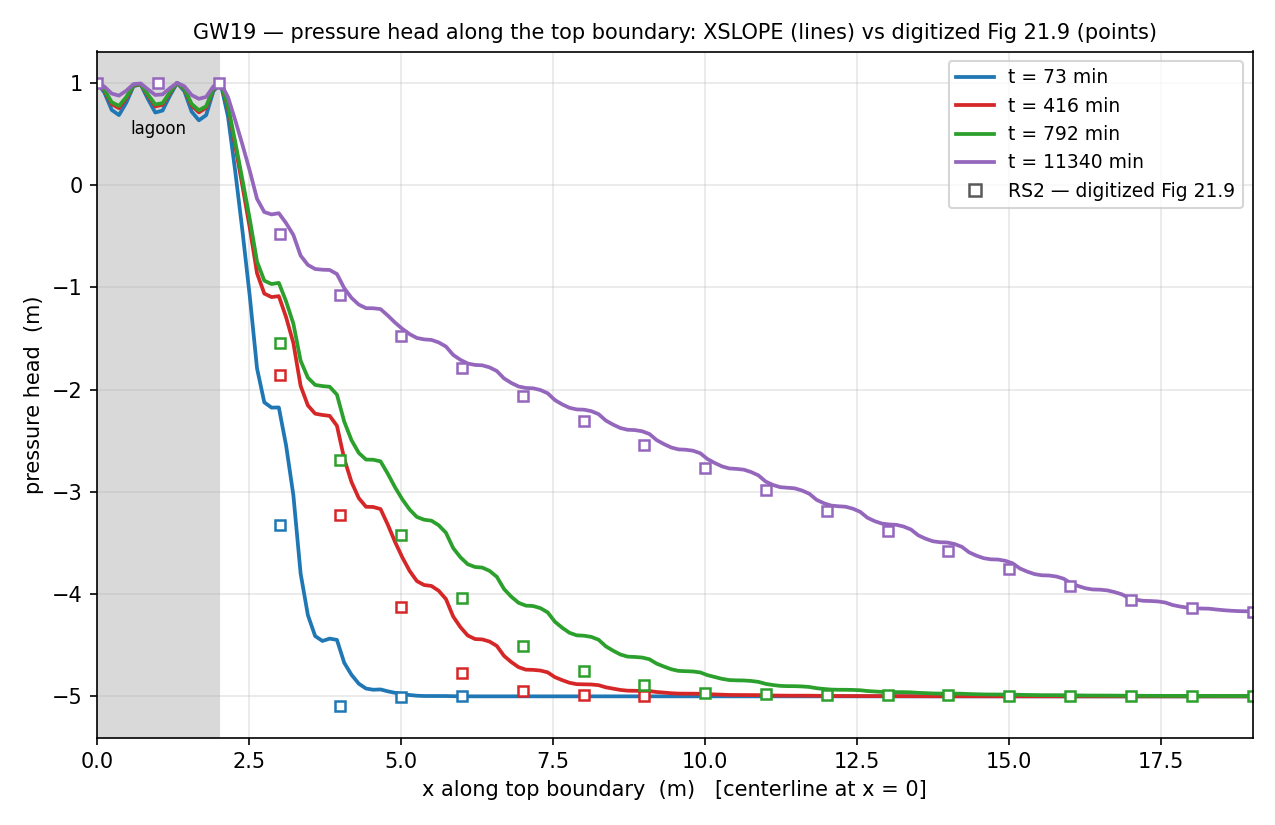
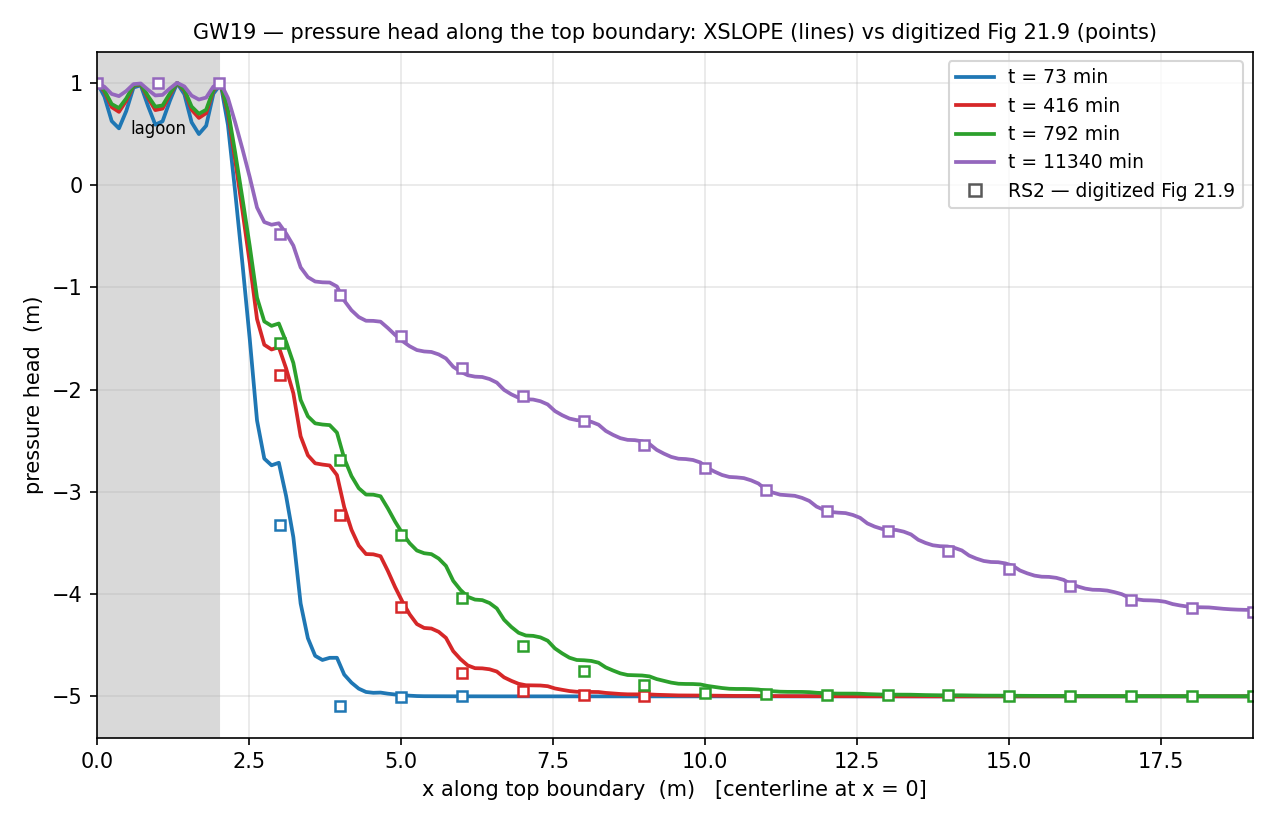
relock(gw19): build the lagoon on the Gardner split — every frame 2-6x closer to RS2
Probe 3 of task #77. GW19 carried one Mualem-vG pair fitted to the vendor's
conductivity table and reused for the moisture capacity, so the capacity followed
the conductivity curve's shape rather than the vendor's retention line. GW18's
split (Gardner kr + independent linear capacity band) applies here after all, and
both of the vendor's curves turn out to be REPRODUCIBLE rather than fittable:

  * conductivity: the #021 .slw table is kr = 1 / 0.1 / 0.01 at 0 / 5 / 10 m of
    suction, identical in relative shape for soil and liner. Gardner
    kr = 1/(1+a*psi^n) passes through both non-trivial points exactly at
    n = ln11/ln2 = 3.45943, a = 9/5^n = 0.034372. The vG pair it replaces returned
    0.095 and 0.0128 there.
  * retention: the water-content table is two points, (0, 0.7) -> (100 kPa, 0.5) --
    a straight line, which is exactly the Sy/|h0| band the gard option uses:
    Sy = 0.2 over h0 = -100/10 = -10 m.

Unit check that made this visible: the two .slw tables are written in DIFFERENT
units -- conductivity against head in metres, water content against pressure in
kPa. Siblings #020/#022 write conductivity abscissae of -10.1936799184506 /
-0.509683995922528 / -3.05810397553517 (= 100 / 5 / 30 kPa over their gamma_w
9.81); here gamma_w = 10 exactly so the converted heads come out round and the
distinction is easy to miss. Both of this model's curves span the same 10 m of
head, which is why the split is available. The builder now records this.
[…]

diff --git a/benchmarks/rocscience/build_groundwater.py b/benchmarks/rocscience/build_groundwater.py
@@ -1181,13 +1181,32 @@ def gw019():
 
     From the vendor RS2 model (groundwater #021 .slw): both materials m_v=0.002,
     porosity 0.7; soil Custom k(psi) k_s=6e-4 (down to 6e-6 by 10 m suction), liner
-    k_s=3.54e-4 (same relative shape), both fit here by one Mualem-vG curve
-    (vg_a=0.1734, vg_n=1.9124).  TimeUnit=minute, so k is m/min and the schedule is
-    in minutes.  Storage S_s = gamma_w*m_v = 10*0.002 = 0.02 /m (the vendor model
-    carries pore_fluid_uw=10), S_y = theta_s - theta_r = 0.7-0.5 = 0.2, read off the
-    ENDPOINTS of the vendor's water-content table (0, 0.7) -> (100, 0.5); its 100 kPa
-    range is the same order as the vG fit's own scale, so the vG moisture capacity
-    stands in for it (see the GW#17/#18 block comment).
+    k_s=3.54e-4 (same relative shape).  TimeUnit=minute, so k is m/min and the
+    schedule is in minutes.  Storage S_s = gamma_w*m_v = 10*0.002 = 0.02 /m (the
+    vendor model carries pore_fluid_uw=10), S_y = theta_s - theta_r = 0.7-0.5 = 0.2.
+
+    Built on the GW#18 split (``unsat='gard'``, see the block comment above), which
+    both vendor tables here support REPRODUCING rather than fitting:
+
+      * conductivity -- the .slw table is three points in metres of head,
+        kr(0)=1, kr(5 m)=0.1, kr(10 m)=0.01, identical in relative shape for the
+        soil and the liner.  Gardner kr = 1/(1+a*psi^n) through the two non-trivial
+        points is exact: n = ln(11)/ln(2) = 3.45943, a = 9/5^n = 0.034372.  (The
+        Mualem-vG pair this replaces, vg_a=0.1734/vg_n=1.9124, was a fit -- it
+        returns kr = 0.095 and 0.0128 at those two points.)
+      * retention -- the .slw water-content table is TWO points in kPa,
+        (0, 0.7) -> (100, 0.5), i.e. a straight line, which is exactly the linear
+        drainage band Sy/|h0| that ``gard`` uses for capacity: Sy = 0.2 over
+        h0 = -100/10 = -10 m.
+
+    NOTE the two tables are written in DIFFERENT units in the .slw -- conductivity
+    against head in metres, water content against pressure in kPa.  The sibling
+    models make this unambiguous: '#020' and '#022' write conductivity abscissae of
+    -10.1936799184506 / -0.509683995922528 / -3.05810397553517, which are 100 / 5 /
+    30 kPa divided by their gamma_w = 9.81, while their water-content abscissae stay
+    round (-4000, -100).  Here gamma_w = 10 exactly, so the converted conductivity
+    heads come out round (-10, -5) and the distinction is easy to miss.  Both of
+    this model's curves therefore span the SAME 10 m of head.
 
     The far field (right edge x=19, y in [0,5]) is held at total head 5 — the
     regional water table 5 m below the surface, which is also the initial condition:
@@ -1203,13 +1222,14 @@ def gw019():
     Fredlund & Rahardjo) + pressure-head contours at the four times — chart-only, no
     tabulated value.  XSLOPE's own solved heads at interior stations are locked as a
     regression guard; the field reproduces the lagoon-leak mound spreading toward the
-    far field.  Carries the SWCC-mapping timing caveat."""
+    far field."""
     sd = _tseep_base_sd(gamma_w=10.0, time_unit='min', unit_system='si')
     ss = 10.0 * 0.002
+    _GARD = dict(kr0=0.0, h0=-10.0, unsat='gard', vg_a=0.034372, vg_n=3.45943)
     soil = _tseep_material(sd['materials'][0], 'Soil', 6.0e-4, ss=ss, sy=0.2)
-    soil.update(kr0=0.0, h0=0.0, unsat='vg', vg_a=0.1734, vg_n=1.9124)
+    soil.update(**_GARD)
     liner = _tseep_material(sd['materials'][0], 'Liner', 3.54e-4, ss=ss, sy=0.2)
-    liner.update(kr0=0.0, h0=0.0, unsat='vg', vg_a=0.1734, vg_n=1.9124)
+    liner.update(**_GARD)
     sd['materials'] = [soil, liner]              # mat 0 = soil, mat 1 = liner
     sd['profile_lines'] = []
     sd['polygons'] = [

diff --git a/docs/verification/rocscience_groundwater.md b/docs/verification/rocscience_groundwater.md
@@ -126,7 +126,7 @@ used across this section (**built**, *covered*, *partial*, *planned*, *blocked*,
 | [16](#gw16) | 🟢 | Pore pressure dissipation of stratified soil | Within ≈0.3–0.5% of u₀ of the recomputed Pyrah 1996 two-layer eigen-series | **built** (3 cases) |
 | [17](#gw17) | <span class="nodata">⊘</span> | Transient seepage, earth fill dam with toe drain | At 15 h XSLOPE's *h* = 7 front stands 1.1–1.8 m inside the upstream face against RS2's 1.5–3.3 m · the steady field reproduces the Fig 19-5 total-head contours — reservoir 10 → drain 0, phreatic drawn to the toe — and at 16383 h, where RS2 is essentially steady, XSLOPE's station heads read 6.54 / 6.92 / 4.37 / 3.22 against a steady 7.20 / 7.52 / 5.84 / 4.40, settling to within 0.01 m of it by ≈5×10⁴ h | **built** (both vendor stage times + steady); contour-only target, locked as a regression guard |
 | [18](#gw18) | 🟢 | Transient seepage through an earth fill dam | Toe-slope total head within 0.072 m rms / 0.106 m worst of the digitized Fig 20.5 profile at t = 0.6 h and 0.115 m rms / 0.187 m worst at t = 19656 h, over 11 stations — both inside the ≈0.2 m the chart can be read to · XSLOPE's steady profile within 0.074 m rms / 0.122 m worst of Fig 20.5's 19656 h curve | **built** (both vendor stage times + steady); the elastic *S*<sub>s</sub> acts in the saturated zone only, as Slide's *m*<sub>v</sub> does — the term that sets the drainage time-scale of every transient row here |
-| [19](#gw19) | 🟢 | Transient seepage below a lagoon | Near-steady (11340 min) pressure head along the top boundary within 0.089 m rms / 0.203 m worst of the digitized Fig 21.9 markers over 20 stations — under 2% of the driving head · early frames 0.27–0.62 m rms, XSLOPE's mound running *ahead* of RS2's | **built** (all four frames); the near-steady frame is locked against the vendor profile, the early frames carry a measured timing shift from the single van Genuchten pair that has to carry both vendor curves |
+| [19](#gw19) | 🟢 | Transient seepage below a lagoon | Near-steady (11340 min) pressure head along the top boundary within 0.045 m rms / 0.126 m worst of the digitized Fig 21.9 markers over 20 stations — under 1% of the driving head · early frames 0.07–0.35 m rms, XSLOPE's mound running slightly *ahead* of RS2's | **built** (all four frames); both vendor curves are reproduced rather than fitted (Gardner conductivity through its three points, capacity band from its straight retention line), the near-steady frame is locked against the vendor profile |
 | [20](#gw20) | <span class="nodata">⊘</span> | Transient seepage in a layered slope | RS2 reaches the steady query-line profile of Fig 22.7 by 208 s and XSLOPE by 400 s: the two differ by 0.105 m rms along the line at 208 s and by 0.005 m once both are steady · XSLOPE's own solved heads at 4.6 / 31 / 208 s are locked as a regression guard | **built** (all three frames); the vendor-facing lock for this geometry is [GW7](#gw7)'s steady profile, and the transient frames carry a measured ≈2× timing offset |
 | [21](#gw21) | 🟢 | Transient seepage through a fully confined aquifer | Within ≈0.02 ft of the Ferris erfc closed form at 600 hr | **built** (both cases) |
 
@@ -979,9 +979,14 @@ at $t=0$ and leaks down through the liner.
 
 From the vendor RS2 model both materials carry $m_v=0.002$ and porosity 0.7; the soil
 Custom $k(\psi)$ has $k_s=6\times10^{-4}$ m/min (down two decades by 10 m suction) and the
-liner $k_s=3.54\times10^{-4}$ m/min with the same relative shape, both fit by one
-Mualem–van Genuchten curve ($\alpha=0.173\ \text{m}^{-1}$, $n=1.91$). Storage
-$S_s=\gamma_w m_v=10\times0.002=0.02\ \text{m}^{-1}$, $S_y=0.3$. The far field (right edge,
+liner $k_s=3.54\times10^{-4}$ m/min with the same relative shape. Both of the vendor's
+unsaturated curves are **reproduced rather than fitted**, the same split
+[GW18](#gw18) uses: the conductivity table is three points, $k_r=1/0.1/0.01$ at
+$0/5/10$ m of suction, which the Gardner law $k_r=1/(1+a\psi^n)$ passes through exactly at
+$n=\ln 11/\ln 2=3.459$, $a=9/5^{n}=0.0344$; and the water-content table is the two points
+$(0,0.7)\rightarrow(100\ \text{kPa},0.5)$, a straight line, which is exactly the linear
+drainage band the Gardner option uses for moisture capacity — $S_y=0.2$ over
+$h_0=-100/10=-10$ m. Storage $S_s=\gamma_w m_v=10\times0.002=0.02\ \text{m}^{-1}$. The far field (right edge,
 $y\in[0,5]$) is held at total head 5 — the regional water table 5 m below the surface, which
 is also the **initial condition**: the $t=0$ steady solve at a lagoon head of 5 (equal to the
 far field) gives a uniform water table at el 5, then the lagoon steps to total head 11
@@ -998,39 +1003,39 @@ exactly the initial water table 5 m below the top boundary, and the lagoon marke
 for [GW18](#gw18).
 
 **The near-steady frame.** Against RS2's own markers at 20 stations along the top boundary,
-XSLOPE's 11340 min profile agrees to **0.089 m rms and 0.203 m at worst** over a pressure-head
-range of more than 5 m — under 2% of the driving head, with the single largest deviation at
-*x* = 3 m, the first station off the lagoon edge. Five top-boundary stations of that frame are
-locked.
+XSLOPE's 11340 min profile agrees to **0.045 m rms and 0.126 m at worst** over a pressure-head
+range of more than 5 m — under 1% of the driving head. Five top-boundary stations of that
+frame are locked.
 
 | $x$ (m) | 3 | 6 | 10 | 14 | 19 |
 |---|---|---|---|---|---|
-| XSLOPE pressure head | −0.28 | −1.72 | −2.65 | −3.50 | −4.17 |
-| Fig 21.9 (RS2) | −0.48 (+0.20) | −1.79 (+0.07) | −2.76 (+0.11) | −3.57 (+0.07) | −4.18 (+0.01) |
+| XSLOPE pressure head | −0.37 | −1.83 | −2.73 | −3.54 | −4.15 |
+| Fig 21.9 (RS2) | −0.48 (+0.10) | −1.79 (−0.05) | −2.76 (+0.03) | −3.57 (+0.04) | −4.18 (+0.02) |
 
-**The early frames.** These do not track as closely — 0.62 / 0.47 / 0.27 m rms at 73 / 416 /
-792 min — and the disagreement has a definite shape and a definite sign: XSLOPE's mound runs
-*ahead* of RS2's, standing higher at every station, by up to 1.15 m at 73 min (at *x* = 3 m,
-the station nearest the lagoon) and by up to 0.77 and 0.59 m at 416 and 792 min. The lead
-closes monotonically as the field fills, from 0.62 m rms to 0.089 m by 11340 min.
+**The early frames.** These track less closely than the near-steady one — 0.35 / 0.14 /
+0.07 m rms at 73 / 416 / 792 min — and the residual has a consistent sign: XSLOPE's mound runs
+slightly *ahead* of RS2's, by up to 0.61 m at 73 min (at *x* = 3 m, the station nearest the
+lagoon) and by up to 0.27 and 0.19 m at 416 and 792 min. The lead closes monotonically as the
+field fills.
 
-The rate the mound fills at is set by the moisture capacity, and this model cannot carry the
-vendor's own: both of its unsaturated curves come from the vendor's tables — the
-Mualem–van Genuchten pair is fitted to its conductivity table, and $S_y=0.7-0.5=0.2$ is the
-drop across its water-content table — but a single $(\alpha, n)$ has to carry both, so the
-capacity follows the shape of the *conductivity* curve rather than the vendor's retention
-line. Where [GW18](#gw18) can keep the two apart (its Gardner option reproduces the retention
-line exactly), this geometry's liner and soil both need the van Genuchten $k_r$ form, so the
-fit has to choose. The shape drops out as the field approaches steady state — hence the
-near-steady frame carrying the lock.
+The rate the mound fills at is set by the moisture capacity, which is why this model is built
+on the Gardner split rather than on one Mualem–van Genuchten pair carrying both vendor curves.
+A single $(\alpha, n)$ fitted to the conductivity table also has to supply the capacity, which
+then follows the *conductivity* curve's shape instead of the vendor's retention line; on this
+problem that costs a factor of two to four at every frame (0.62 / 0.47 / 0.27 / 0.089 m rms,
+against 0.35 / 0.14 / 0.07 / 0.045 for the split). The split is available here for the same
+reason it is on [GW18](#gw18) — the retention table is a straight line, so the band
+$S_y/|h_0|$ *is* that line — with the added benefit that Gardner passes through this model's
+three conductivity points exactly where the van Genuchten fit returned 0.095 and 0.0128 for
+$k_r$ = 0.1 and 0.01. The residual lead is what remains once both curves are the vendor's own.
 
 ![gw019: pressure head along the top boundary as the lagoon fills](images/gw019.png)
 
-<!-- test: file=files/rocscience_gw/gw019.xlsx, type=tseep_head, target_size=0.8, time=73, max_head_change_frac=0.25, points=1:8:6.858;3:8:5.694;1:5:5.092, tolerance=0.15, benchmark=GW19-t73 -->
-<!-- test: file=files/rocscience_gw/gw019.xlsx, type=tseep_head, target_size=0.8, time=416, max_head_change_frac=0.25, points=1:8:8.067;3:8:7.411;1:5:6.216, tolerance=0.15, benchmark=GW19-t416 -->
-<!-- test: file=files/rocscience_gw/gw019.xlsx, type=tseep_head, target_size=0.8, time=792, max_head_change_frac=0.25, points=1:8:8.337;3:8:7.723;1:5:6.694, tolerance=0.15, benchmark=GW19-t792 -->
-<!-- test: file=files/rocscience_gw/gw019.xlsx, type=tseep_head, target_size=0.8, time=11340, max_head_change_frac=0.25, points=1:8:9.526;3:8:9.107;1:5:8.700, tolerance=0.15, benchmark=GW19-t11340 -->
-<!-- test: file=files/rocscience_gw/gw019.xlsx, type=tseep_head, target_size=0.8, time=11340, max_head_change_frac=0.25, points=3:10:9.725;6:10:8.281;10:10:7.355;14:10:6.503;19:10:5.831, tolerance=0.15, benchmark=GW19-top-t11340 -->
+<!-- test: file=files/rocscience_gw/gw019.xlsx, type=tseep_head, target_size=0.8, time=73, max_head_change_frac=0.25, points=1:8:6.088;3:8:5.417;1:5:5.033, tolerance=0.15, benchmark=GW19-t73 -->
+<!-- test: file=files/rocscience_gw/gw019.xlsx, type=tseep_head, target_size=0.8, time=416, max_head_change_frac=0.25, points=1:8:7.706;3:8:6.960;1:5:5.924, tolerance=0.15, benchmark=GW19-t416 -->
+<!-- test: file=files/rocscience_gw/gw019.xlsx, type=tseep_head, target_size=0.8, time=792, max_head_change_frac=0.25, points=1:8:8.113;3:8:7.416;1:5:6.464, tolerance=0.15, benchmark=GW19-t792 -->
+<!-- test: file=files/rocscience_gw/gw019.xlsx, type=tseep_head, target_size=0.8, time=11340, max_head_change_frac=0.25, points=1:8:9.470;3:8:9.028;1:5:8.626, tolerance=0.15, benchmark=GW19-t11340 -->
+<!-- test: file=files/rocscience_gw/gw019.xlsx, type=tseep_head, target_size=0.8, time=11340, max_head_change_frac=0.25, points=3:10:9.626;6:10:8.166;10:10:7.266;14:10:6.465;19:10:5.846, tolerance=0.15, benchmark=GW19-top-t11340 -->
 
 ### GW20: Transient seepage in a layered slope {#gw20}
 
